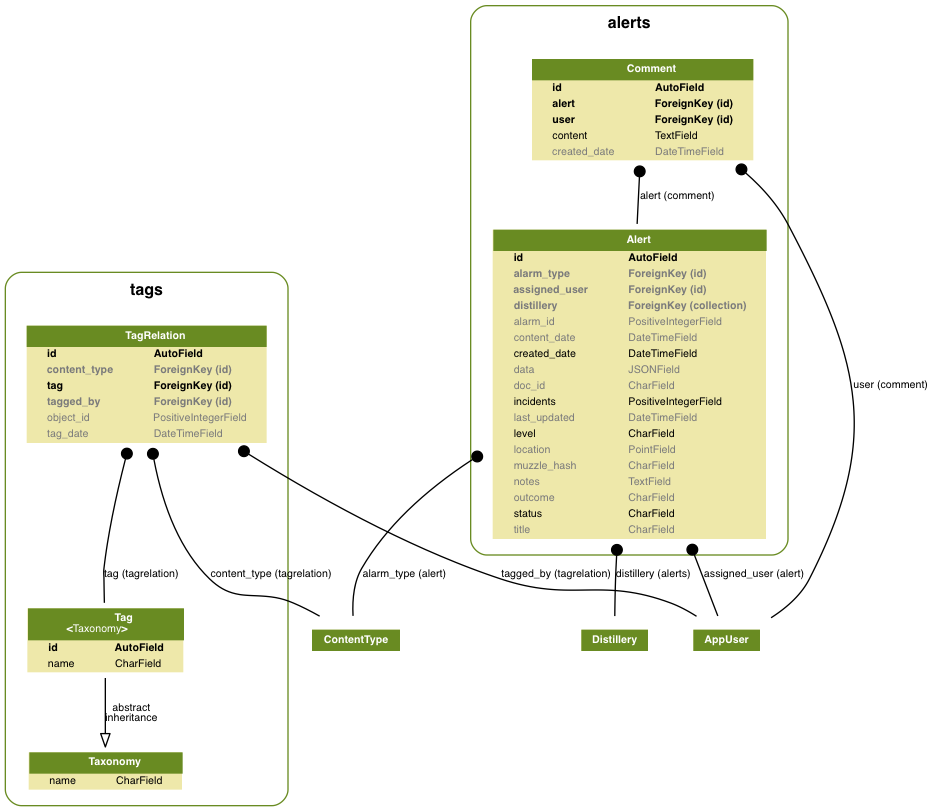
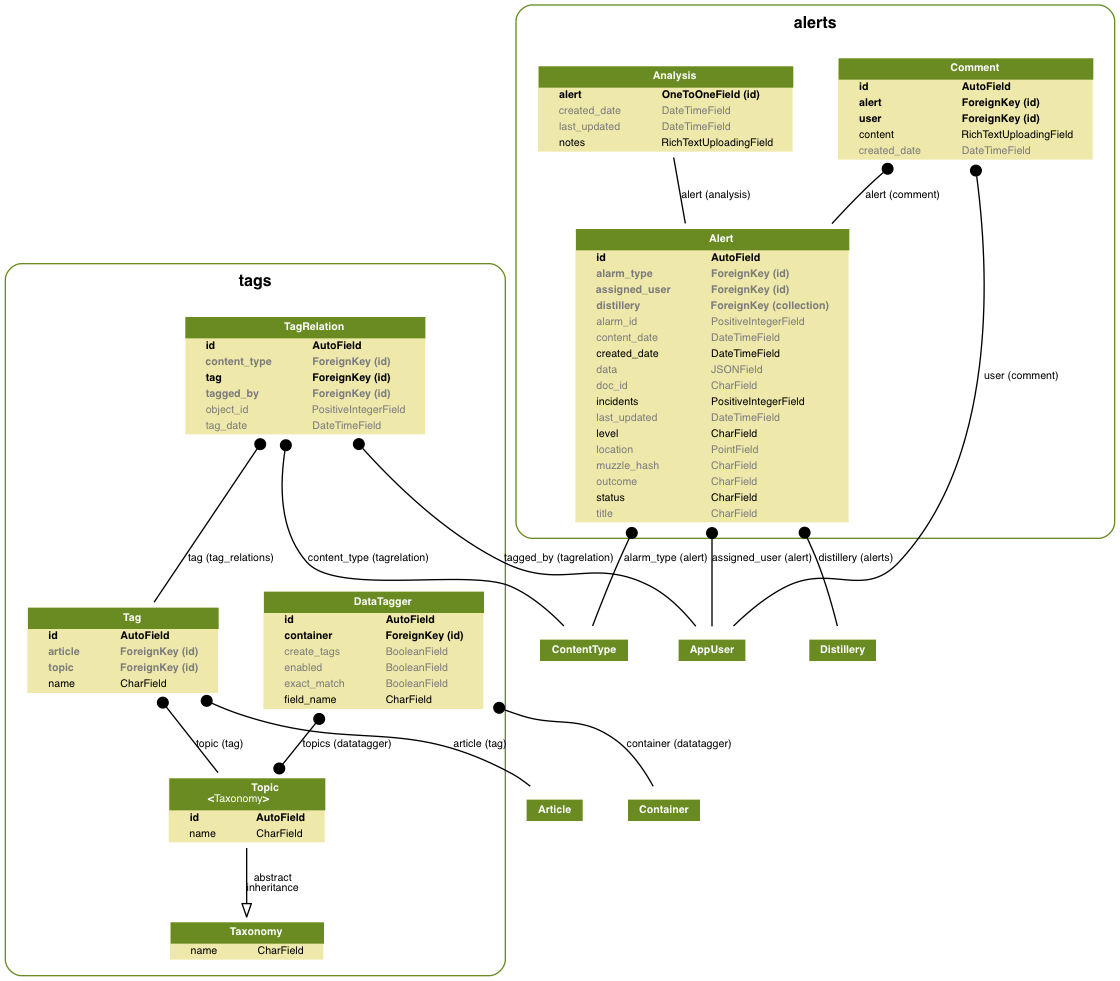
update docs for DataTaggers

diff --git a/docs/source/conf.py b/docs/source/conf.py
@@ -503,6 +503,8 @@ rst_epilog = """
 .. |DataSieves| replace:: :class:`DataSieves<sifter.datasifter.datasieves.models.DataSieve>`
 .. |DataSieveNode| replace:: :class:`~sifter.datasifter.datasieves.models.DataSieveNode`
 .. |DataSieveNodes| replace:: :class:`DataSieveNodes<sifter.datasifter.datasieves.models.DataSieveNode>`
+.. |DataTagger| replace:: :class:`~tags.models.DataTagger`
+.. |DataTaggers| replace:: :class:`DataTaggers<tags.models.DataTagger>`
 .. |Destination| replace:: :class:`~responder.destinations.models.Destination`
 .. |Destinations| replace:: :class:`Destinations<responder.destinations.models.Destination>`
 .. |Dispatch| replace:: :class:`~responder.dispatches.models.Dispatch`
